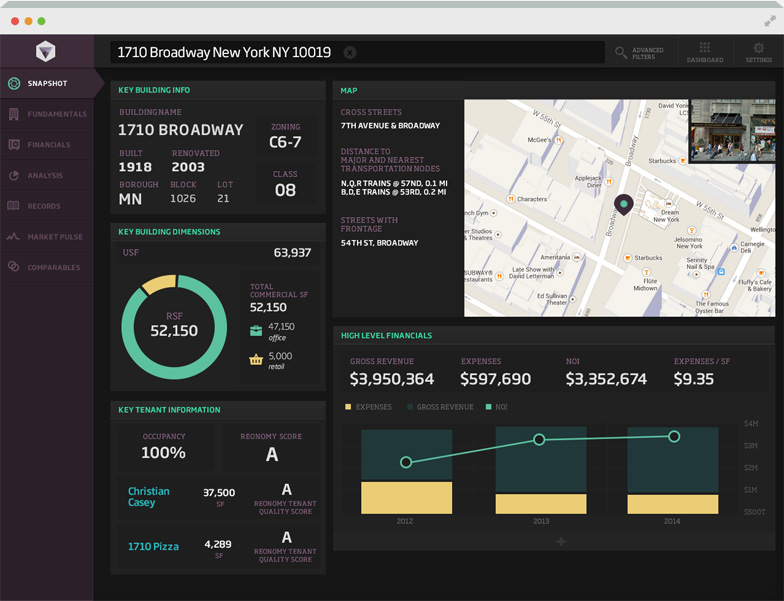
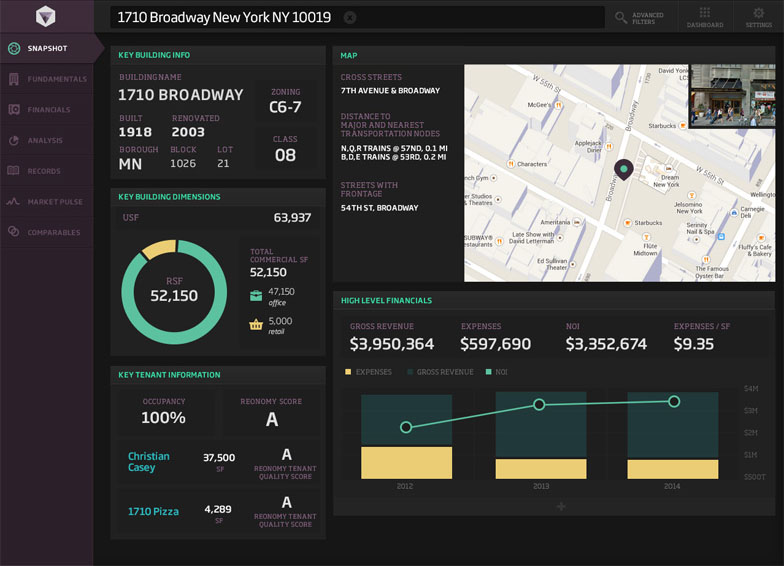
got shadow in there, cleaned up styles for photoviewer

diff --git a/js/components/component.photo-viewer.js b/js/components/component.photo-viewer.js
@@ -24,16 +24,33 @@
     options = $.extend( {}, defaults, options );
 
     // Intial setup - copy img's from the nav to the holder
-    $items.each( function(){
+    $items.each( function( i ){
       var $clone = $(this).find('img').clone();
+      $clone.addClass('photo');
       $photos = $photos.add( $clone );
       $holder.append( $clone );
+
+      // Make static clone to fix heights
+      $clone = $clone.clone();
+      $clone.removeClass('photo');
+      $clone.addClass('active-static');
+      $holder.append( $clone );
+
+      // Setup click handler
+      $(this).click( function(){
+        viewer.go( i );
+        if ( viewer.timeout ){
+          viewer.stop();
+          viewer.setTick();
+        }
+      });
     });
 
     var viewer = {
       curr: -1
 
     , start: function(){
+        viewer.setCurrent();
         viewer._tick();
         return $this;
       }
@@ -68,18 +85,17 @@
     , setCurrent: function(){
         $items.eq( viewer.curr ).addClass('active');
         $photos.eq( viewer.curr ).addClass('active');
-        $holder.css({
-          'width': $photos.eq( viewer.curr ).width() + 'px'
-        , 'height': $photos.eq( viewer.curr ).height() + 'px'
-        });
+      }
+
+    , setTick: function(){
+        viewer.timeout = setTimeout( viewer._tick, options.interval );
       }
 
     , _tick : function(){
         if ( viewer.curr >= ($items.length - 1) ) viewer.curr = -1;
 
         viewer.next();
-
-        viewer.timeout = setTimeout( viewer._tick, options.interval );
+        viewer.setTick();
       }
     };
 

diff --git a/less/components/photo-viewer.less b/less/components/photo-viewer.less
@@ -2,6 +2,7 @@
 // Photo Viewer //
 //////////////////
 
+@chrome-height:         40px;
 @thumbnail-width:       160px;
 @thumbnail-bg:          #D1D1D1;
 @indicator-size:        16px;
@@ -101,17 +102,51 @@
 
 .photo-wrapper {
   display: inline-block;
+  box-sizing: content-box;
+  min-width: 789px;
+  // Size of screenshot `chrome`
   margin-right: 60px;
 }
 
-.photo-wrapper > img {
+.photo-wrapper:before {
+  .sprite('screenshot-chrome');
+  content: "";
+  display: block;
+  height: @chrome-height;
+}
+
+.photo-wrapper:after {
+  @extra-space: 20px;
+
+  .sprite('screenshot-shadow');
+  content: "";
+  display: block;
+  margin-top: 4px;
+  height: 50px;
+  padding: 0 @extra-space;
+  margin-left: -@extra-space;;
+  margin-right: -@extra-space;;
+}
+
+.photo-wrapper > .photo {
   position: absolute;
-  top: 0;
+  top: @chrome-height;
   left: 0;
+  padding-left: 6px;
   .opacity(0);
   .transition( 0.4s, ease-in-out );
 }
 
-.photo-wrapper > img.active {
+.photo-wrapper > .photo.active {
+  position: absolute;
   .opacity(1);
+}
+
+.photo-wrapper > .active-static {
+  display: none;
+  visibility: hidden;
+}
+
+.photo-wrapper > .photo.active + .active-static {
+  display: block;
 }

diff --git a/less/sprite.less b/less/sprite.less
@@ -2,9 +2,16 @@
 // Sprite //
 ////////////
 
+.sprite( @graphic ) when ( @graphic = 'screenshot-chrome' ){
+  background-position: 0 0;
+}
+
+.sprite( @graphic ) when ( @graphic = 'screenshot-shadow' ){
+  background-position: -18px -50px;
+}
+
 .sprite( @graphic ) when ( @graphic = 'triangle' ){
-  background-position-x: 137px;
-  background-position-y: -126px;
+  background-position: 137px -126px;
 }
 
 .sprite( @graphic ){

diff --git a/less/component-site-overrides.less b/less/component-site-overrides.less
@@ -10,6 +10,10 @@
   padding-bottom: 0;
 }
 
+.section-screenshots {
+  padding-bottom: 60px;
+}
+
 .section-screenshots .photo-viewer {
   margin-top: 40px;
 }
